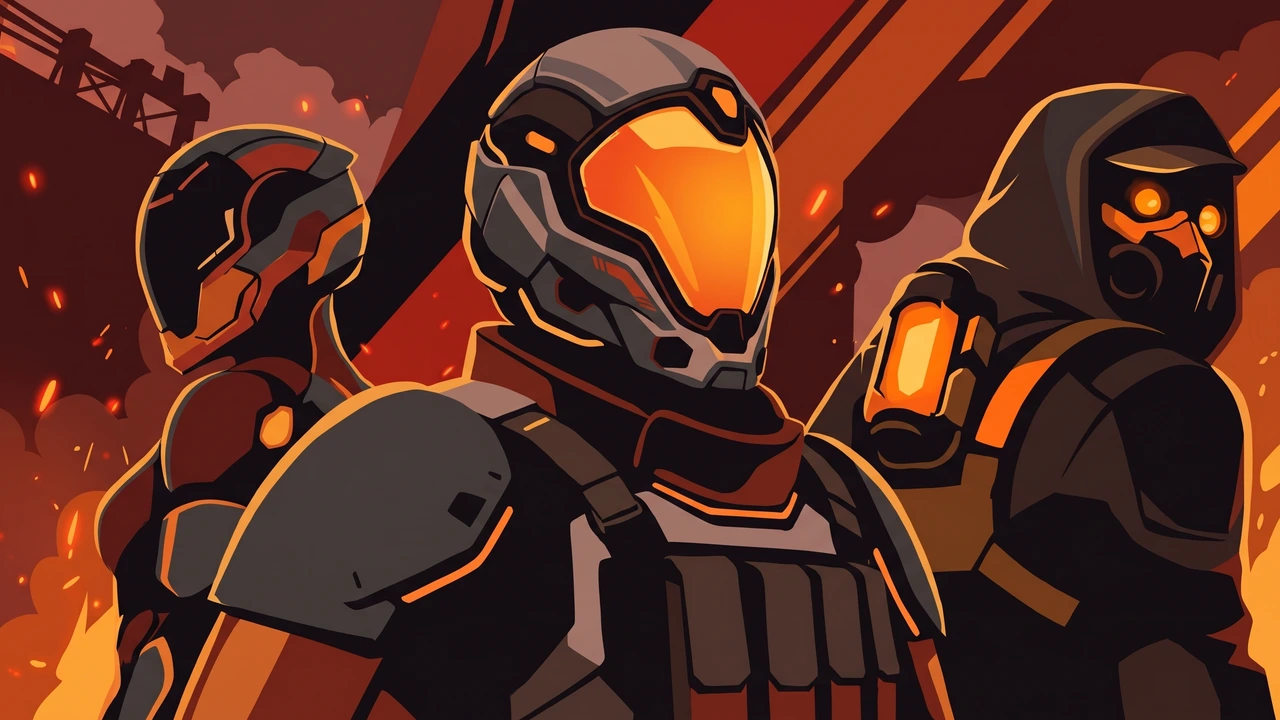
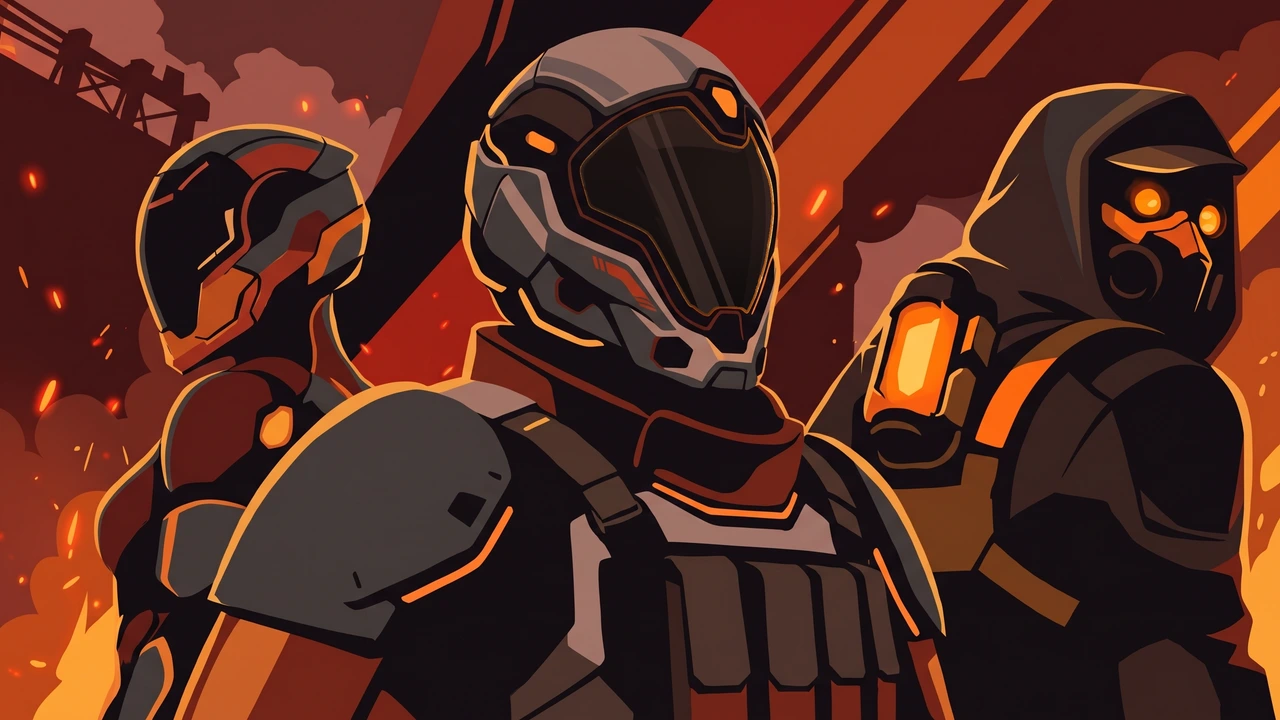
capa: visor do soldado do meio em vidro escuro (build 2394)

Changed region(s): [[0.4375, 0.1528, 0.625, 0.4583]]

diff --git a/index.html b/index.html
@@ -55,9 +55,9 @@
   <!-- HERO -->
   <section class="hero">
     <picture class="hero-art">
-      <source media="(max-width: 700px)" srcset="assets/cover-800.webp?v=m3" type="image/webp">
-      <source srcset="assets/cover.webp?v=m3" type="image/webp">
-      <img src="assets/cover.jpg?v=m3" alt="Gun Frenzy key art: three armored fighters in ember light" width="2560" height="1440" fetchpriority="high">
+      <source media="(max-width: 700px)" srcset="assets/cover-800.webp?v=m4" type="image/webp">
+      <source srcset="assets/cover.webp?v=m4" type="image/webp">
+      <img src="assets/cover.jpg?v=m4" alt="Gun Frenzy key art: three armored fighters in ember light" width="2560" height="1440" fetchpriority="high">
     </picture>
     <div class="hero-shade" aria-hidden="true"></div>
     <div class="hero-copy">
